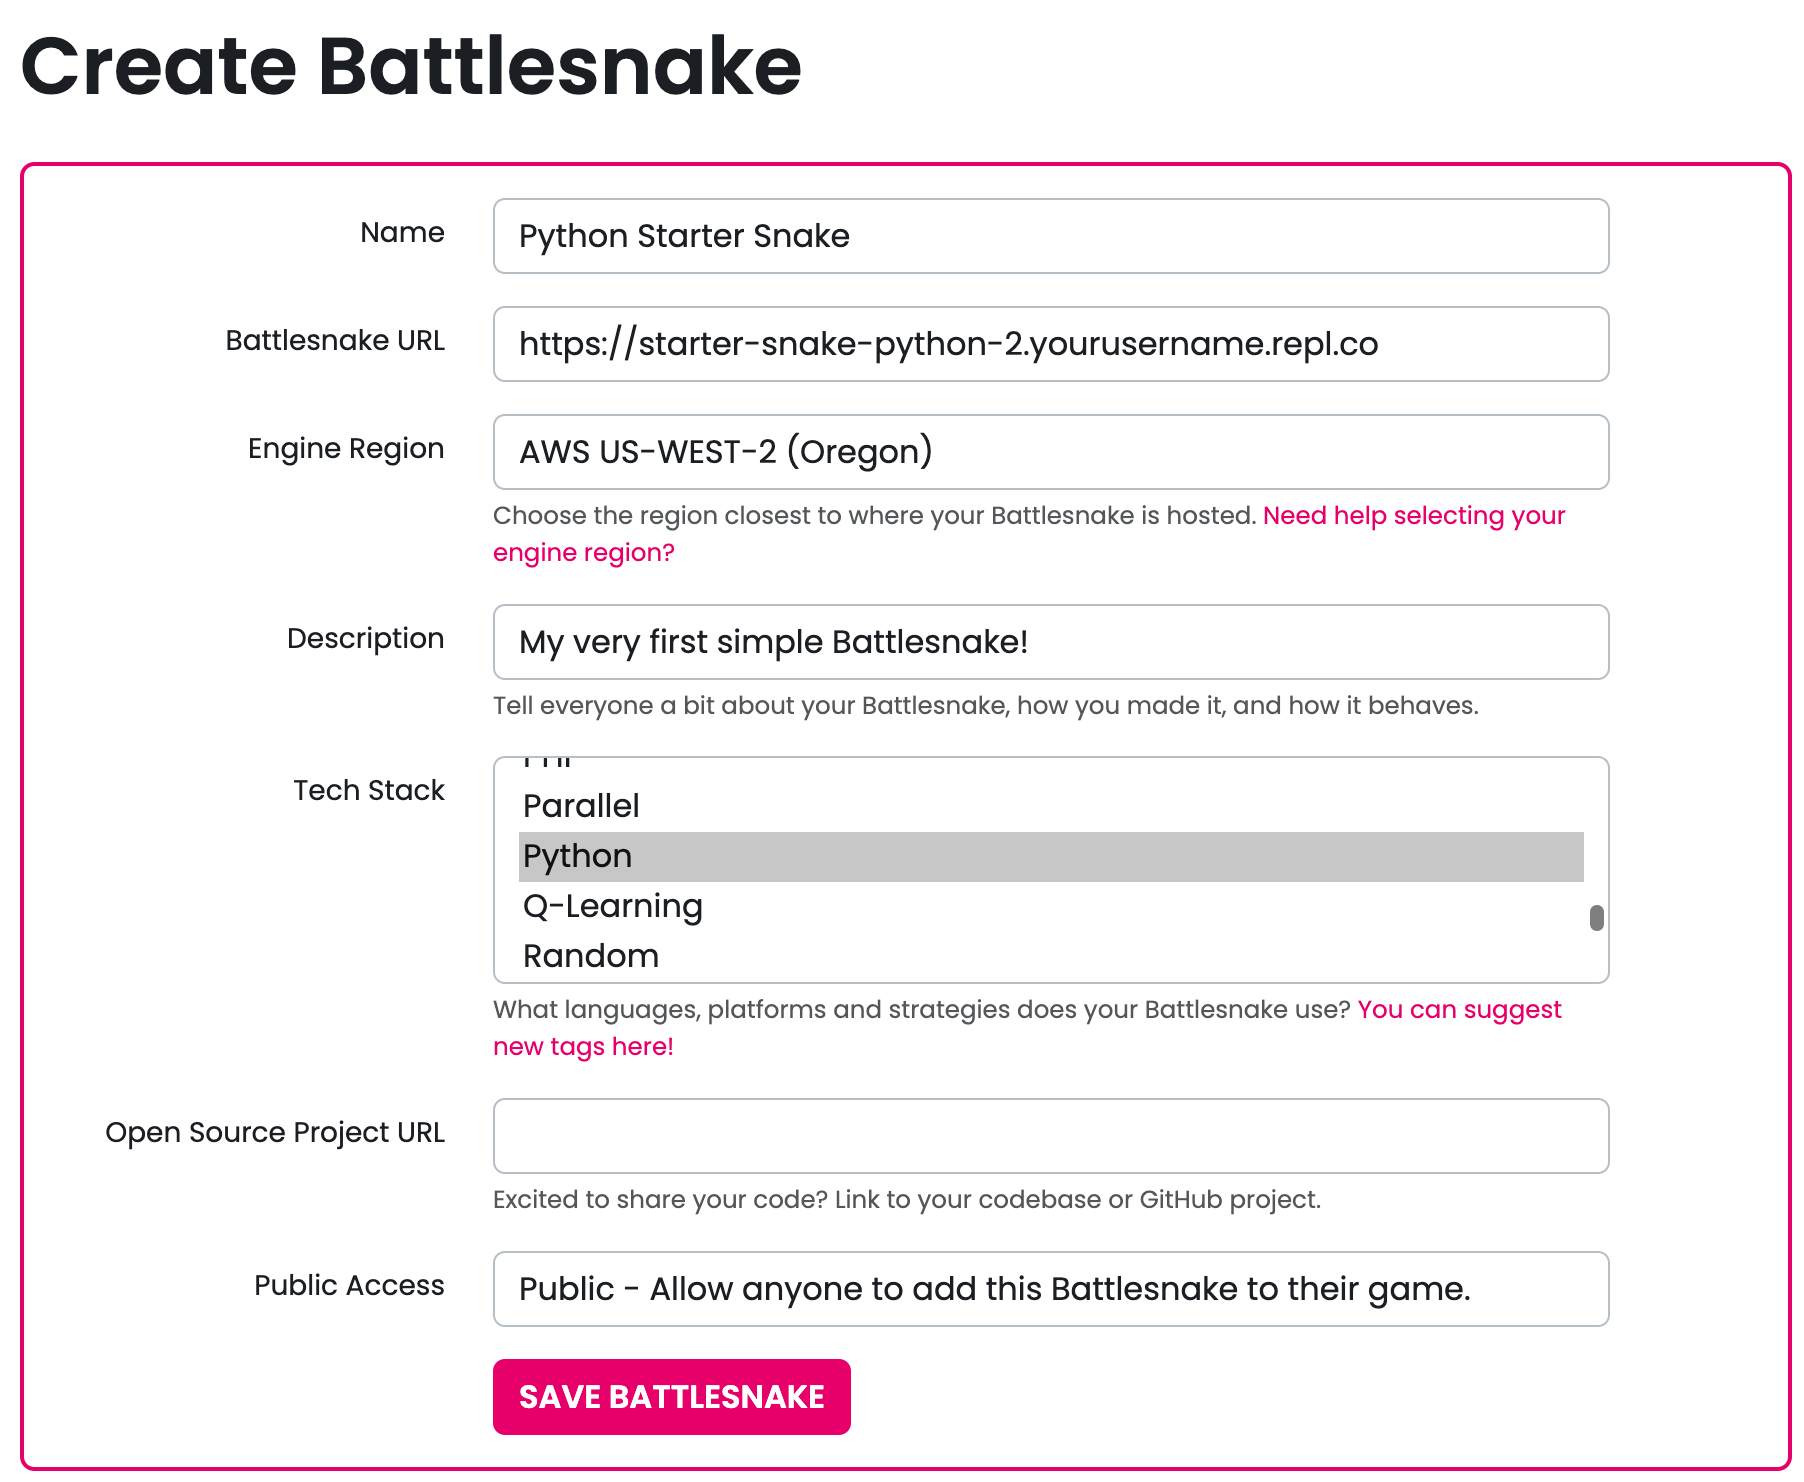
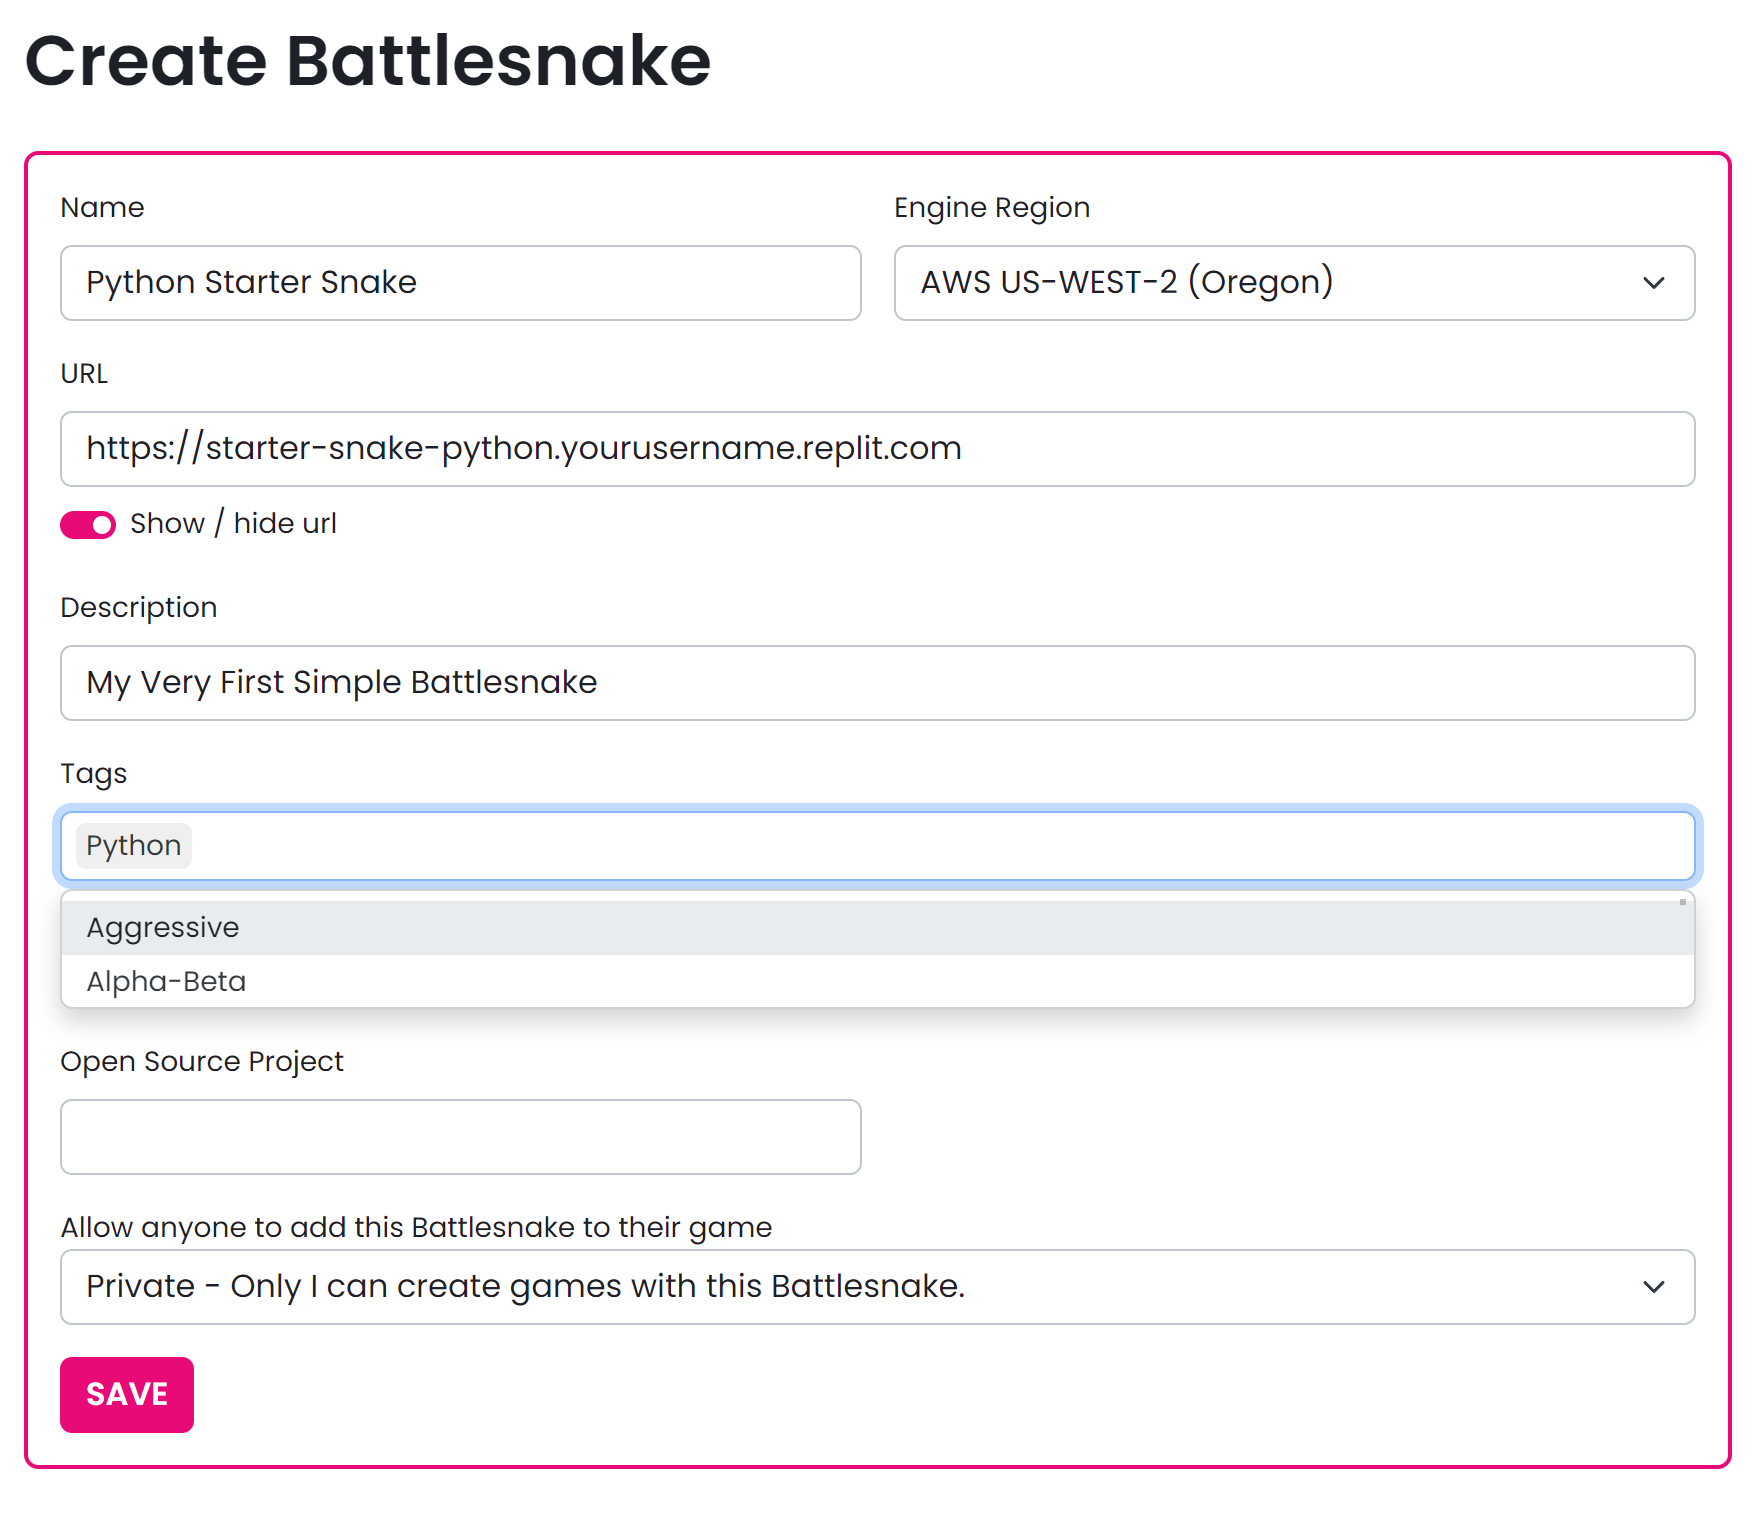
Update Quickstart Images (#32)
Pending changes exported from your codespace

diff --git a/docs/quickstart.md b/docs/quickstart.md
@@ -88,12 +88,10 @@ If everything is set up correctly your Battlesnake will show as operational and 
 ![Battlesnake created screen, with color customization.](/img/battlesnake_created.png)
 
 :::caution
-If there is a problem or error with your Battlesnake, you can make changes to your code or configuration and then click **Refresh** to test it again.
+If there is a problem or error with your Battlesnake, you can make changes to your code or configuration and then click **Ping** to test it again.
 :::
 
-![Refresh option via the gear icon the Battlesnake page](/img/refresh_snake_page.png)
-
-![Refresh button on the Profile page](/img/refresh_profile_page.png)
+![Ping button on the Battlesnakes page](/img/refresh_snake_page.png)
 
 ## 5: Play Your First Game
 
